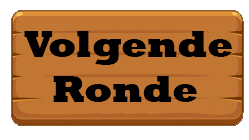
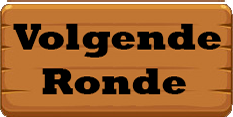
Added new Listener class Hoverlistener for hover over buttons fixed merge conflicts in GUI

diff --git a/core/src/com/s31b/castleoffense/ui/GameMenu.java b/core/src/com/s31b/castleoffense/ui/GameMenu.java
@@ -128,17 +128,8 @@ public class GameMenu implements Screen {
         backgroundTabDef.setSize(500, 150);
 
         endWave = new imageButton(new Texture(Gdx.files.internal("GUIMenu/buttonNextWave.png")), new Texture(Gdx.files.internal("GUIMenu/buttonNextWaveDown.png")), new Texture(Gdx.files.internal("GUIMenu/buttonNextWave.png")));
+        endWave.addListener(new HoverListener());
         endWave.addListener(new ClickListener() {
-            @Override
-            public void enter(InputEvent event, float x, float y, int pointer, Actor fromActor){
-                customCursor = Gdx.graphics.newCursor(new Pixmap(Gdx.files.internal("hand-pointer.png")), 0, 0);
-                Gdx.graphics.setCursor(customCursor);
-                customCursor.dispose();
-            };
-            @Override
-            public void exit(InputEvent event, float x, float y, int pointer, Actor fromActor){
-                Gdx.graphics.setSystemCursor(Cursor.SystemCursor.Arrow);
-            };
             @Override
             public void clicked(InputEvent event, float x, float y) {
                 countOff = 0;
@@ -149,17 +140,8 @@ public class GameMenu implements Screen {
         });
 
         surrender = new imageButton(new Texture(Gdx.files.internal("GUIMenu/buttonSurrender.png")), new Texture(Gdx.files.internal("GUIMenu/buttonSurrenderDown.png")), new Texture(Gdx.files.internal("GUIMenu/buttonSurrender.png")));
+        surrender.addListener(new HoverListener());
         surrender.addListener(new ClickListener() {
-            @Override
-            public void enter(InputEvent event, float x, float y, int pointer, Actor fromActor){
-                customCursor = Gdx.graphics.newCursor(new Pixmap(Gdx.files.internal("hand-pointer.png")), 0, 0);
-                Gdx.graphics.setCursor(customCursor);
-                customCursor.dispose();
-            };
-            @Override
-            public void exit(InputEvent event, float x, float y, int pointer, Actor fromActor){
-                Gdx.graphics.setSystemCursor(Cursor.SystemCursor.Arrow);
-            };
             @Override
             public void clicked(InputEvent event, float x, float y) {
                 game.endGame();
@@ -168,9 +150,9 @@ public class GameMenu implements Screen {
         });
 
         getTabPages();
-        endWave.setSize(120, 120);
+        endWave.setSize(120, 70);
         endWave.setPosition(530, 630);
-        surrender.setSize(120, 120);
+        surrender.setSize(100, 30);
         surrender.setPosition(530, 570);
 
         float w = Gdx.graphics.getWidth();
@@ -189,37 +171,6 @@ public class GameMenu implements Screen {
         Gdx.input.setInputProcessor(stage);
     }
 
-    @Override
-    public void render(float delta) {
-        Gdx.gl.glClearColor(1, 1, 1, 1);
-        Gdx.gl.glClear(GL20.GL_COLOR_BUFFER_BIT);
-
-        stage.addActor(background);
-        stage.addActor(menuBar);
-        stage.addActor(main);
-        stage.addActor(endWave);
-        stage.addActor(surrender);
-        stage.addActor(playerHpDesc);
-        stage.addActor(playerNameDesc);
-        stage.addActor(playerGoldDesc);
-        stage.addActor(playerName);
-        stage.addActor(playerHp);
-        stage.addActor(playerGold);
-        stage.act(Gdx.graphics.getDeltaTime());
-        
-        stage.act();
-        stage.draw();
-
-        TextureGlobals.SHAPE_RENDERER.setProjectionMatrix(camera.combined);
-        batch.begin();
-        batch.setProjectionMatrix(camera.combined);
-
-        game.update();
-        game.draw();
-
-        batch.end();
-    }
-
     private void getTabPages() {
         main = new Table();
         main.setSize(500, 180);
@@ -229,30 +180,8 @@ public class GameMenu implements Screen {
         HorizontalGroup group = new HorizontalGroup();
         final imageButton tab1 = new imageButton(new Texture(Gdx.files.internal("GUIMenu/tabPageButtonDef.png")), new Texture(Gdx.files.internal("GUIMenu/tabPageButtonDefDown.png")), new Texture(Gdx.files.internal("GUIMenu/tabPageButtonDef.png")));
         final imageButton tab2 = new imageButton(new Texture(Gdx.files.internal("GUIMenu/tabPageButtonOff.png")), new Texture(Gdx.files.internal("GUIMenu/tabPageButtonOffDown.png")), new Texture(Gdx.files.internal("GUIMenu/tabPageButtonOff.png")));
-        tab1.addListener(new ClickListener() {       
-            @Override
-            public void enter(InputEvent event, float x, float y, int pointer, Actor fromActor){
-                customCursor = Gdx.graphics.newCursor(new Pixmap(Gdx.files.internal("hand-pointer.png")), 0, 0);
-                Gdx.graphics.setCursor(customCursor);
-                customCursor.dispose();
-            };
-            @Override
-            public void exit(InputEvent event, float x, float y, int pointer, Actor fromActor){
-                Gdx.graphics.setSystemCursor(Cursor.SystemCursor.Arrow);
-            };
-        });
-        tab2.addListener(new ClickListener() {       
-            @Override
-            public void enter(InputEvent event, float x, float y, int pointer, Actor fromActor){
-                customCursor = Gdx.graphics.newCursor(new Pixmap(Gdx.files.internal("hand-pointer.png")), 0, 0);
-                Gdx.graphics.setCursor(customCursor);
-                customCursor.dispose();
-            };
-            @Override
-            public void exit(InputEvent event, float x, float y, int pointer, Actor fromActor){
-                Gdx.graphics.setSystemCursor(Cursor.SystemCursor.Arrow);
-            };
-        });
+        tab1.addListener(new HoverListener());
+        tab2.addListener(new HoverListener());
         group.addActor(tab1);
         group.addActor(tab2);
         main.add(group);
@@ -329,17 +258,8 @@ public class GameMenu implements Screen {
         
         
         buyDef = new imageButton(new Texture(Gdx.files.internal("GUIMenu/buttonBuy.png")), new Texture(Gdx.files.internal("GUIMenu/buttonBuyDown.png")), new Texture(Gdx.files.internal("GUIMenu/buttonBuy.png")));
+        buyDef.addListener(new HoverListener());
         buyDef.addListener(new ClickListener() {
-             @Override
-            public void enter(InputEvent event, float x, float y, int pointer, Actor fromActor){
-                customCursor = Gdx.graphics.newCursor(new Pixmap(Gdx.files.internal("hand-pointer.png")), 0, 0);
-                Gdx.graphics.setCursor(customCursor);
-                customCursor.dispose();
-            };
-            @Override
-            public void exit(InputEvent event, float x, float y, int pointer, Actor fromActor){
-                Gdx.graphics.setSystemCursor(Cursor.SystemCursor.Arrow);
-            };
             @Override
             public void clicked(InputEvent event, float x, float y) {
                 // TODO: this should be player.BuyDefensiveEntity()
@@ -355,17 +275,8 @@ public class GameMenu implements Screen {
         buyDef.setSize(100, 40);
         
         nextDef = new imageButton(new Texture(Gdx.files.internal("GUIMenu/buttonNext.png")), new Texture(Gdx.files.internal("GUIMenu/buttonNextDown.png")), new Texture(Gdx.files.internal("GUIMenu/buttonNext.png")));
+        nextDef.addListener(new HoverListener());
         nextDef.addListener(new ClickListener() {
-             @Override
-            public void enter(InputEvent event, float x, float y, int pointer, Actor fromActor){
-                customCursor = Gdx.graphics.newCursor(new Pixmap(Gdx.files.internal("hand-pointer.png")), 0, 0);
-                Gdx.graphics.setCursor(customCursor);
-                customCursor.dispose();
-            };
-            @Override
-            public void exit(InputEvent event, float x, float y, int pointer, Actor fromActor){
-                Gdx.graphics.setSystemCursor(Cursor.SystemCursor.Arrow);
-            };
             @Override
             public void clicked(InputEvent event, float x, float y) {   
                 countDefList++;
@@ -412,7 +323,7 @@ public class GameMenu implements Screen {
         offPriceDesc.setColor(Color.BLACK);
         offPrice = new Label(Float.toString(o.getPrice()), skin);
         offPrice.setPosition(170, 90);
-        offPrice.setColor(Color.BLACK);
+        offPrice.setColor(Color.BLACK);;
         
         Label offDescriptionDesc = new Label("Beschrijving: ", skin);
         offDescriptionDesc.setPosition(60, 70);
@@ -444,26 +355,18 @@ public class GameMenu implements Screen {
         offNumber.setColor(Color.BLACK);
 
         buyOff = new imageButton(new Texture(Gdx.files.internal("GUIMenu/buttonBuy.png")), new Texture(Gdx.files.internal("GUIMenu/buttonBuyDown.png")), new Texture(Gdx.files.internal("GUIMenu/buttonBuy.png")));
+        buyOff.addListener(new HoverListener());
         buyOff.addListener(new ClickListener() {
-             @Override
-            public void enter(InputEvent event, float x, float y, int pointer, Actor fromActor){
+            @Override
+            public void clicked(InputEvent event, float x, float y) {
                 customCursor = Gdx.graphics.newCursor(new Pixmap(Gdx.files.internal("hand-pointer.png")), 0, 0);
                 Gdx.graphics.setCursor(customCursor);
                 customCursor.dispose();
-            };
-            @Override
-            public void exit(InputEvent event, float x, float y, int pointer, Actor fromActor){
-                Gdx.graphics.setSystemCursor(Cursor.SystemCursor.Arrow);
-            };
-            @Override
-            public void clicked(InputEvent event, float x, float y) {
                 countOff++;
                 // TODO: this should be player.BuyOffensiveEntity()
                 Offensive entity = (Offensive) EntityFactory.buyEntity(EntityType.Military, player);
                 game.getCurrentWave().addOffensive(entity);
                 offNumber.setText(Integer.toString(countOff));
-                
-                playerGold.setText(Integer.toString(player.getGold()));
             }
         ;
         });
@@ -471,17 +374,8 @@ public class GameMenu implements Screen {
         buyOff.setSize(100, 40);
         
         nextOff = new imageButton(new Texture(Gdx.files.internal("GUIMenu/buttonNext.png")), new Texture(Gdx.files.internal("GUIMenu/buttonNextDown.png")), new Texture(Gdx.files.internal("GUIMenu/buttonNext.png")));
+        nextOff.addListener(new HoverListener());
         nextOff.addListener(new ClickListener() {
-             @Override
-            public void enter(InputEvent event, float x, float y, int pointer, Actor fromActor){
-                customCursor = Gdx.graphics.newCursor(new Pixmap(Gdx.files.internal("hand-pointer.png")), 0, 0);
-                Gdx.graphics.setCursor(customCursor);
-                customCursor.dispose();
-            };
-            @Override
-            public void exit(InputEvent event, float x, float y, int pointer, Actor fromActor){
-                Gdx.graphics.setSystemCursor(Cursor.SystemCursor.Arrow);
-            };
             @Override
             public void clicked(InputEvent event, float x, float y) {   
                 countOffList++;
@@ -516,7 +410,41 @@ public class GameMenu implements Screen {
         contentOff.addActor(offNumber);
         return contentOff;
     }
+    
+    @Override
+    public void render(float delta) {
+        Gdx.gl.glClearColor(1, 1, 1, 1);
+        Gdx.gl.glClear(GL20.GL_COLOR_BUFFER_BIT);
+        
+        stage.addActor(background);
+        stage.addActor(menuBar);
+        stage.addActor(main);
+        stage.addActor(endWave);
+        stage.addActor(surrender);
+        stage.addActor(playerHpDesc);
+        stage.addActor(playerNameDesc);
+        stage.addActor(playerGoldDesc);
+        stage.addActor(playerName);
+        stage.addActor(playerHp);
+        stage.addActor(playerGold);
+        stage.act(Gdx.graphics.getDeltaTime());
+        
+        stage.act();
+        stage.draw();
+        
+        playerGold.setText(Integer.toString(player.getGold()));
+        playerHp.setText(Integer.toString(player.getCastle().getHitpoints()));
+        
+        TextureGlobals.SHAPE_RENDERER.setProjectionMatrix(camera.combined);
+        batch.begin();
+        batch.setProjectionMatrix(camera.combined);
 
+        game.update();
+        game.draw();
+
+        batch.end();
+    }
+    
     @Override
     public void show() {
         //throw new UnsupportedOperationException("Not supported yet."); //To change body of generated methods, choose Tools | Templates.

diff --git a/core/src/com/s31b/castleoffense/ui/MainMenu.java b/core/src/com/s31b/castleoffense/ui/MainMenu.java
@@ -14,6 +14,7 @@ import com.badlogic.gdx.graphics.OrthographicCamera;
 import com.badlogic.gdx.graphics.Pixmap;
 import com.badlogic.gdx.graphics.Texture;
 import com.badlogic.gdx.scenes.scene2d.Actor;
+import com.badlogic.gdx.scenes.scene2d.EventListener;
 import com.badlogic.gdx.scenes.scene2d.InputEvent;
 import com.badlogic.gdx.scenes.scene2d.Stage;
 import com.badlogic.gdx.scenes.scene2d.ui.Image;
@@ -52,17 +53,8 @@ public class MainMenu implements Screen {
         background.setHeight(800);
        
         buttonPlay = new imageButton(new Texture(Gdx.files.internal("GUIMenu/buttonMainStart.png")), new Texture(Gdx.files.internal("GUIMenu/buttonMainStartDown.png")), new Texture(Gdx.files.internal("GUIMenu/buttonMainStart.png")));
+        buttonPlay.addListener(new HoverListener());
         buttonPlay.addListener( new ClickListener() {              
-            @Override
-            public void enter(InputEvent event, float x, float y, int pointer, Actor fromActor){
-                customCursor = Gdx.graphics.newCursor(new Pixmap(Gdx.files.internal("hand-pointer.png")), 0, 0);
-                Gdx.graphics.setCursor(customCursor);
-                customCursor.dispose();
-            };
-            @Override
-            public void exit(InputEvent event, float x, float y, int pointer, Actor fromActor){
-                Gdx.graphics.setSystemCursor(Cursor.SystemCursor.Arrow);
-            };
             @Override
             public void clicked(InputEvent event, float x, float y) {
                 Gdx.graphics.setSystemCursor(Cursor.SystemCursor.Arrow);
@@ -70,38 +62,19 @@ public class MainMenu implements Screen {
             };
         });
         buttonInfo = new imageButton(new Texture(Gdx.files.internal("GUIMenu/buttonMainInfo.png")), new Texture(Gdx.files.internal("GUIMenu/buttonMainInfoDown.png")), new Texture(Gdx.files.internal("GUIMenu/buttonMainInfo.png")));
+        buttonInfo.addListener(new HoverListener());
         buttonInfo.addListener( new ClickListener() {       
             @Override
-            public void enter(InputEvent event, float x, float y, int pointer, Actor fromActor){
-                customCursor = Gdx.graphics.newCursor(new Pixmap(Gdx.files.internal("hand-pointer.png")), 0, 0);
-                Gdx.graphics.setCursor(customCursor);
-                customCursor.dispose();
-            };
-            @Override
-            public void exit(InputEvent event, float x, float y, int pointer, Actor fromActor){
-                Gdx.graphics.setSystemCursor(Cursor.SystemCursor.Arrow);
-            };
-            @Override
             public void clicked(InputEvent event, float x, float y) {
-                Gdx.graphics.setSystemCursor(Cursor.SystemCursor.Arrow);
+               Gdx.graphics.setSystemCursor(Cursor.SystemCursor.Arrow);
                co.setScreen(new InfoScreen(co, game));
             };
         });
         buttonQuit = new imageButton(new Texture(Gdx.files.internal("GUIMenu/buttonMainQuit.png")), new Texture(Gdx.files.internal("GUIMenu/buttonMainQuitDown.png")), new Texture(Gdx.files.internal("GUIMenu/buttonMainQuit.png")));
+        buttonQuit.addListener(new HoverListener());
         buttonQuit.addListener( new ClickListener() {
             @Override
-            public void enter(InputEvent event, float x, float y, int pointer, Actor fromActor){
-                customCursor = Gdx.graphics.newCursor(new Pixmap(Gdx.files.internal("hand-pointer.png")), 0, 0);
-                Gdx.graphics.setCursor(customCursor);
-                customCursor.dispose();
-            };
-            @Override
-            public void exit(InputEvent event, float x, float y, int pointer, Actor fromActor){
-                Gdx.graphics.setSystemCursor(Cursor.SystemCursor.Arrow);
-            };
-            @Override
             public void clicked(InputEvent event, float x, float y) {
-                Gdx.graphics.setSystemCursor(Cursor.SystemCursor.Arrow);
                 System.exit(0);
             };
         });
@@ -135,7 +108,6 @@ public class MainMenu implements Screen {
         stage.addActor(buttonInfo);
         stage.addActor(buttonQuit);
         stage.act();
-        System.out.println(stage.getActors().size);
         stage.draw();
     }
     

diff --git a/core/src/com/s31b/castleoffense/ui/InfoScreen.java b/core/src/com/s31b/castleoffense/ui/InfoScreen.java
@@ -49,23 +49,15 @@ public class InfoScreen implements Screen{
         stage = new Stage(new FitViewport(Gdx.graphics.getWidth(), Gdx.graphics.getHeight()));
         skin = new Skin(Gdx.files.internal("skin/uiskin.json"));
         background = new Image(new Texture(Gdx.files.internal("GUIMenu/TMOTDbackground.jpg")));  
+        background.setHeight(800);
         
         text = new TextArea("Lorem ipsum dolor sit amet, consectetuer adipiscing elit. Aenean commodo ligula eget dolor. Aenean massa. Cum sociis natoque penatibus et magnis dis parturient montes, nascetur ridiculus mus. Donec quam felis, ultricies nec, pellentesque eu, pretium quis, sem. Nulla consequat massa quis enim. Donec pede justo, fringilla vel, aliquet nec, vulputate eget, arcu. In enim justo, rhoncus ut, imperdiet a, venenatis vitae, justo. Nullam dictum felis eu pede mollis pretium. Integer tincidunt. Cras dapibus. Vivamus elementum semper nisi. Aenean vulputate eleifend tellus. Aenean leo ligula, porttitor eu, consequat vitae, eleifend ac, enim. Aliquam lorem ante, dapibus in, viverra quis, feugiat a, tellus. Phasellus viverra nulla ut metus varius laoreet. Quisque rutrum. Aenean imperdiet. Etiam ultricies nisi vel augue. Curabitur ullamcorper ultricies nisi. Nam eget dui. Etiam rhoncus. Maecenas tempus, tellus eget condimentum rhoncus, sem quam semper libero, sit amet adipiscing sem neque sed ipsum. Nam quam nunc, blandit vel, luctus pulvinar, hendrerit id, lorem. Maecenas nec odio et ante tincidunt tempus. Donec vitae sapien ut libero venenatis faucibus. Nullam quis ante. Etiam sit amet orci eget eros faucibus tincidunt. Duis leo. Sed fringilla mauris sit amet nibh. Donec sodales sagittis magna. Sed consequat, leo eget bibendum sodales, augue velit cursus nunc, quis gravida magna mi a libero. Fusce vulputate eleifend sapien. Vestibulum purus quam, scelerisque ut, mollis sed, nonummy id, metus. Nullam accumsan lorem in dui. Cras ultricies mi eu turpis hendrerit fringilla. Vestibulum ante ipsum primis in faucibus orci luctus et ultrices posuere cubilia Curae; In ac dui quis mi consectet", skin);
         text.setSize(500, 550);
         text.setPosition((Gdx.graphics.getWidth() / 2) - (text.getWidth() / 2), 20);
         
         buttonBack = new imageButton(new Texture(Gdx.files.internal("GUIMenu/buttonTerug.png")), new Texture(Gdx.files.internal("GUIMenu/buttonTerugDown.png")), new Texture(Gdx.files.internal("GUIMenu/buttonTerug.png")));
+        buttonBack.addListener(new HoverListener());
         buttonBack.addListener( new ClickListener() {   
-            @Override
-            public void enter(InputEvent event, float x, float y, int pointer, Actor fromActor){
-                customCursor = Gdx.graphics.newCursor(new Pixmap(Gdx.files.internal("hand-pointer.png")), 0, 0);
-                Gdx.graphics.setCursor(customCursor);
-                customCursor.dispose();
-            };
-            @Override
-            public void exit(InputEvent event, float x, float y, int pointer, Actor fromActor){
-                Gdx.graphics.setSystemCursor(Cursor.SystemCursor.Arrow);
-            };
             @Override
             public void clicked(InputEvent event, float x, float y) {
                 Gdx.graphics.setSystemCursor(Cursor.SystemCursor.Arrow);

diff --git a/core/src/com/s31b/castleoffense/ui/HoverListener.java b/core/src/com/s31b/castleoffense/ui/HoverListener.java
@@ -1,0 +1,30 @@
+package com.s31b.castleoffense.ui;
+
+import com.badlogic.gdx.Gdx;
+import com.badlogic.gdx.graphics.Cursor;
+import com.badlogic.gdx.graphics.Pixmap;
+import com.badlogic.gdx.scenes.scene2d.Actor;
+import com.badlogic.gdx.scenes.scene2d.InputEvent;
+import com.badlogic.gdx.scenes.scene2d.InputListener;
+
+/**
+ *
+ * @author Nick
+ */
+public class HoverListener extends InputListener {
+   private Cursor customCursor = Gdx.graphics.newCursor(new Pixmap(Gdx.files.internal("hand-pointer.png")), 0, 0);
+
+   public void enter (InputEvent event, float x, float y, int pointer, Actor fromActor) {
+      if (pointer == -1){
+          Gdx.graphics.setCursor(customCursor);
+          customCursor.dispose();
+      }
+   }
+
+   public void exit (InputEvent event, float x, float y, int pointer, Actor toActor) {
+      if (pointer == -1){
+          Gdx.graphics.setSystemCursor(Cursor.SystemCursor.Arrow);
+      }
+   }
+}
+
